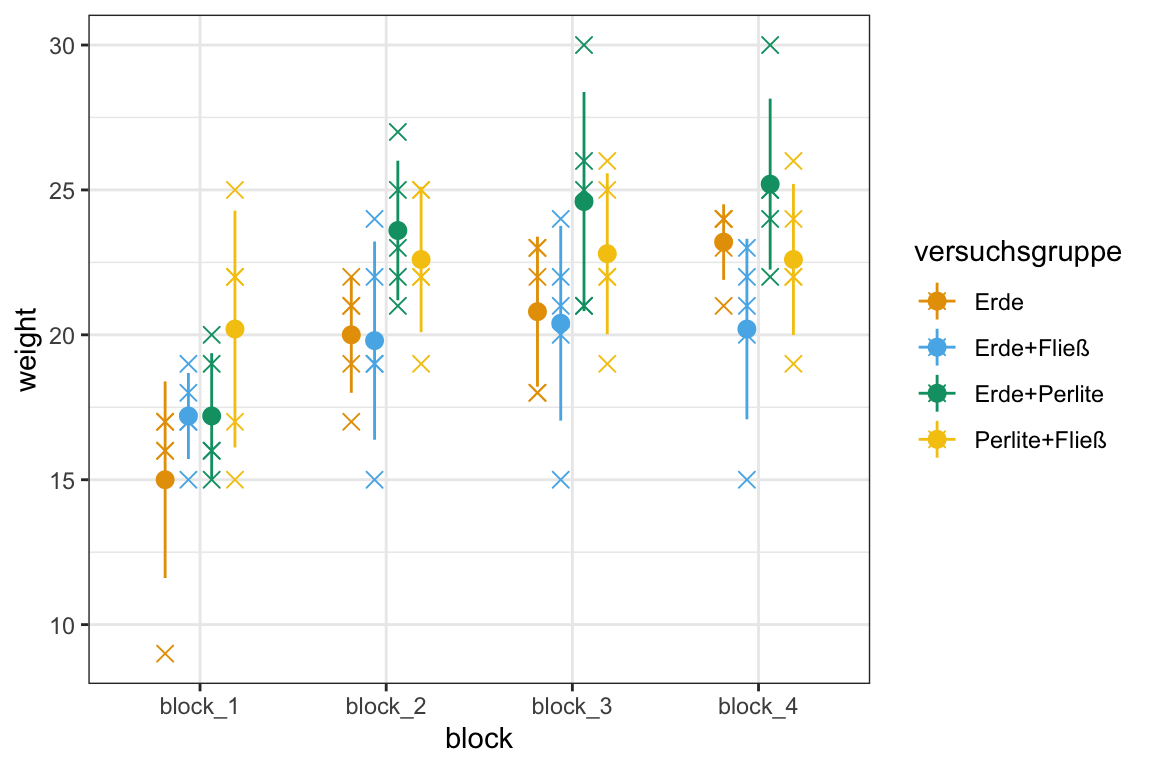
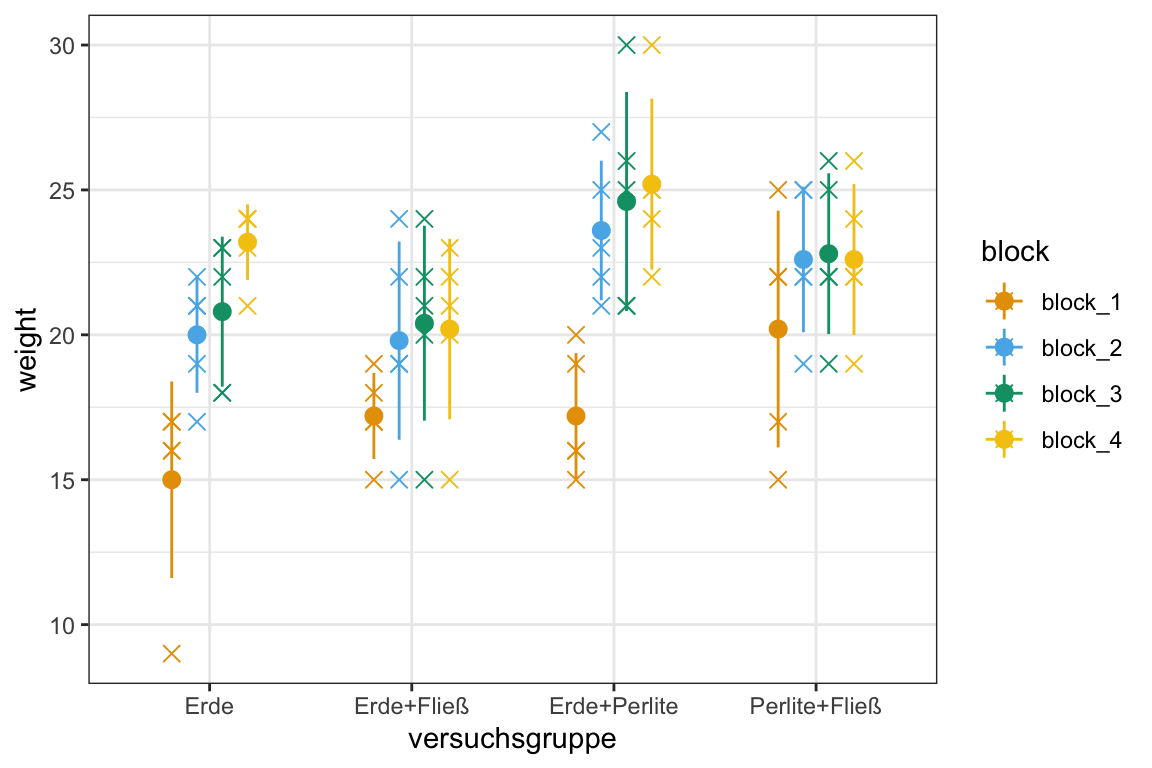
added text

diff --git a/docs/stat-modeling-robust-quantile.html b/docs/stat-modeling-robust-quantile.html
@@ -701,7 +701,7 @@ div.csl-indent {
   </div>
   
 
-</header><p><em>Version vom July 18, 2023 um 11:42:04</em></p>
+</header><p><em>Version vom July 18, 2023 um 13:17:44</em></p>
 <blockquote class="blockquote">
 <p><em>“All models are approximations. Essentially, all models are wrong, but some are useful. However, the approximate nature of the model must always be borne in mind.” — George E. P. Box</em></p>
 </blockquote>
@@ -851,7 +851,7 @@ div.csl-indent {
 </div>
 <p>In der <a href="#fig-robust-basi-00">Abbildung&nbsp;<span>47.1</span></a> siehst du einmal die Daten als Dotplots mit Mittelwert und Standardabweichung. Wir machen hier mal einen etwas komplizierteren Plot, aber immer nur Barplot ist ja auch langweilig.</p>
 <div class="cell" data-layout-align="center">
-<div class="sourceCode" id="cb4"><pre class="downlit sourceCode r code-with-copy"><code class="sourceCode R"><span><span class="fu">ggplot</span><span class="op">(</span><span class="va">basi_block_tbl</span>, <span class="fu">aes</span><span class="op">(</span><span class="va">block</span>, <span class="va">weight</span>, color <span class="op">=</span> <span class="va">versuchsgruppe</span><span class="op">)</span><span class="op">)</span> <span class="op">+</span></span>
+<div class="sourceCode" id="cb4"><pre class="downlit sourceCode r code-with-copy"><code class="sourceCode R"><span><span class="fu">ggplot</span><span class="op">(</span><span class="va">basi_block_tbl</span>, <span class="fu">aes</span><span class="op">(</span><span class="va">versuchsgruppe</span>, <span class="va">weight</span>, color <span class="op">=</span> <span class="va">block</span><span class="op">)</span><span class="op">)</span> <span class="op">+</span></span>
 <span>  <span class="fu">theme_bw</span><span class="op">(</span><span class="op">)</span> <span class="op">+</span></span>
 <span>  <span class="fu">scale_color_okabeito</span><span class="op">(</span><span class="op">)</span> <span class="op">+</span></span>
 <span>  <span class="fu">geom_point</span><span class="op">(</span>position <span class="op">=</span> <span class="fu">position_dodge</span><span class="op">(</span><span class="fl">0.5</span><span class="op">)</span>, shape <span class="op">=</span> <span class="fl">4</span>, size <span class="op">=</span> <span class="fl">2.5</span><span class="op">)</span> <span class="op">+</span></span>
@@ -1316,7 +1316,12 @@ NOTE: If two or more means share the same grouping symbol,
 </div>
 </section></section><section id="sec-robust-reg" class="level2 page-columns page-full" data-number="47.4"><h2 data-number="47.4" class="anchored" data-anchor-id="sec-robust-reg">
 <span class="header-section-number">47.4</span> Robuste Regression</h2>
-<p>Bei einer robusten Regression werden jeder Beobachtung auf der Grundlage ihres Residuums unterschiedliche Gewichte (eng. <em>robustness weights</em>) von 0 bis 1 zugewiesen. Wir kennen ein Residuum als die Differenz zwischen den beobachteten und den vorhergesagten Werten der Daten. Die vorhergesagten Daten sind ja die Punkte auf der Geraden. Je kleiner also das Residuum ist, desto größer ist die Gewichtung und desto näher liegt eine Beobachtung an der geschätzten Geraden.</p>
+<p>Bei einer robusten Regression werden jeder Beobachtung auf der Grundlage ihres Residuums unterschiedliche Gewichte (eng. <em>robustness weights</em>) von 0 bis 1 zugewiesen. Wir kennen ja ein Residuum als die Differenz zwischen den beobachteten und den vorhergesagten Werten der Daten. Die vorhergesagten Daten sind ja die Punkte auf der Geraden. Je kleiner also das Residuum ist, desto größer ist die Gewichtung und desto näher liegt eine Beobachtung an der geschätzten Geraden. Wir bestrafen also Punkte, die weit weg von unserer potenziellen Gerade liegen.</p>
+
+<div class="no-row-height column-margin column-container"><div class="">
+<p>Ein englisches Tutorium gibt es dann nochmal ausführlicher unter <a href="https://yuzar-blog.netlify.app/posts/2022-09-02-robustregression/">R demo | Robust Regression (don’t depend on influential data!)</a></p>
+<p>Ebenso liefert auch das Tutorium <a href="https://stats.oarc.ucla.edu/r/dae/robust-regression/">Robust regression | R data analysis example</a> einen Überblick.</p>
+</div></div><p>Schauen wir uns das Problem an einem kleinen Spieldatensatz einmal an.</p>
 <div class="cell">
 <div class="sourceCode" id="cb18"><pre class="downlit sourceCode r code-with-copy"><code class="sourceCode R"><span><span class="va">reg_tbl</span> <span class="op">&lt;-</span> <span class="fu">tibble</span><span class="op">(</span>x <span class="op">=</span> <span class="fu"><a href="https://rdrr.io/r/base/c.html">c</a></span><span class="op">(</span><span class="fl">0</span>, <span class="fl">1</span>, <span class="fl">2</span>, <span class="fl">3</span>, <span class="fl">4</span>, <span class="fl">5</span>, <span class="fl">6</span>, <span class="fl">7</span><span class="op">)</span>,</span>
 <span>                  y <span class="op">=</span> <span class="fu"><a href="https://rdrr.io/r/base/c.html">c</a></span><span class="op">(</span><span class="fl">1</span>, <span class="fl">1.5</span>, <span class="fl">2.3</span>, <span class="fl">2.8</span>, <span class="fl">4.1</span>, <span class="fl">5.3</span>, <span class="fl">0</span>, <span class="fl">6.8</span><span class="op">)</span><span class="op">)</span></span></code><button title="In die Zwischenablage kopieren" class="code-copy-button"><i class="bi"></i></button></pre></div>
@@ -1340,31 +1345,23 @@ NOTE: If two or more means share the same grouping symbol,
 </div>
 </div>
 <p>In unserem Beispiel ist die Beobachtung 6 der Ausreißer. In einer normalen Regression erhält diese Beobachtung sehr viel Gewicht. Die Gerade wird dadurch nach unten gezogen. In einer robusten Regression erhält eine Beobachtung mit einem großen Residuum sehr wenig Gewicht, in diesem konstruierten Beispiel fast 0. Daher können wir sagen, das unser Modell <em>robust</em> gegen Ausreißer ist.</p>
+<p>Okay, soweit lernt es jeder und die Idee der robusten Regression ist auch ziemlich einleuchtend. Aber in der Wissenschaft zeichnen wir keine Gerade durch Punkte und freuen uns drüber, dass die eine gerade besser passt als die andere Gerade.</p>
 <p>Unbeliebt?</p>
 <p><a href="https://en.wikipedia.org/wiki/Robust_regression#History_and_unpopularity_of_robust_regression">History and unpopularity of robust regression</a></p>
 <p><span class="citation" data-cites="stromberg2004write">Stromberg (<a href="#ref-stromberg2004write" role="doc-biblioref">2004</a>)</span></p>
 <p>Gibt es in biologischen Daten eigentlich überhaupt Ausreißer? Oder müssten wir nicht Ausreißer besonders betrachten, weil die Ausreßer dann doch mehr über die Daten verraten?</p>
-
-<div class="no-row-height column-margin column-container"><div class="">
-<p>Ein englisches Tutorium gibt es dann nochmal ausführlicher unter <a href="https://yuzar-blog.netlify.app/posts/2022-09-02-robustregression/">R demo | Robust Regression (don’t depend on influential data!)</a></p>
-<p>Ebenso liefert auch das Tutorium <a href="https://stats.oarc.ucla.edu/r/dae/robust-regression/">Robust regression | R data analysis example</a> einen Überblick.</p>
-</div></div><p>Es gibt noch das R Paket <code>robustbase</code> aber hier sind die Funktionen von <code>emmeans</code> nicht zugänglich.</p>
-<p><span class="math display">\[
-y \sim f_1 + f_2 + c_1
-\]</span></p>
-<p><span class="math display">\[
-length \sim \overbrace{versuchsgruppe}^{f_1} + \underbrace{(time\_num)^3}_{c_1} + \overbrace{versuchsgruppe:(time\_num)^3}^{f_1:c_1}
-\]</span></p>
+<p>Es gibt noch das R Paket <code>robustbase</code> aber hier sind die Funktionen von <code>emmeans</code> nicht zugänglich.</p>
 <div class="cell">
 <div class="sourceCode" id="cb21"><pre class="downlit sourceCode r code-with-copy"><code class="sourceCode R"><span><span class="va">basi_rob_fit</span> <span class="op">&lt;-</span> <span class="fu">rlm</span><span class="op">(</span><span class="va">weight</span> <span class="op">~</span> <span class="va">versuchsgruppe</span> <span class="op">+</span> <span class="va">block</span> <span class="op">+</span> <span class="va">versuchsgruppe</span><span class="op">:</span><span class="va">block</span>, <span class="va">basi_block_tbl</span><span class="op">)</span></span></code><button title="In die Zwischenablage kopieren" class="code-copy-button"><i class="bi"></i></button></pre></div>
 </div>
 <section id="anova-1" class="level3" data-number="47.4.1"><h3 data-number="47.4.1" class="anchored" data-anchor-id="anova-1">
 <span class="header-section-number">47.4.1</span> ANOVA</h3>
-<p>Leider hilft hier die ANOVA nicht weiter. Aber wir können händisch rechnen.</p>
+<p>Dann wollen wir einmal eine zweifaktorielle ANOVA auf den Modell der robusten Regression rechnen. Leider kann ich schon gleich sagen, dass wir hier ein Problem kriegen. Es ist nicht ganz klar unter Theoretikern welche Anzahl an Beobachtungen für die Residuen in der robusten Regression genutzt werden soll. Welche Beobachtungen werden den im Modell berücksichtigt und welche nicht? Daher ist dann der Wert für die Freiheitsgrade <span class="math inline">\(df\)</span> leer und wir erhalten keine <span class="math inline">\(F\)</span>-Statistik und dann auch keine <span class="math inline">\(p\)</span>-Werte. Für mich super unbefriedigend, so kann man dann auch keine Funktionen richtig nutzen.</p>
 <div class="cell">
-<div class="sourceCode" id="cb22"><pre class="downlit sourceCode r code-with-copy"><code class="sourceCode R"><span><span class="va">basi_rob_fit</span> <span class="op">%&gt;%</span> </span>
+<div class="sourceCode" id="cb22"><pre class="downlit sourceCode r code-with-copy"><code class="sourceCode R"><span><span class="va">basi_rob_aov</span> <span class="op">&lt;-</span> <span class="va">basi_rob_fit</span> <span class="op">%&gt;%</span> </span>
 <span>  <span class="fu"><a href="https://rdrr.io/r/stats/anova.html">anova</a></span><span class="op">(</span><span class="op">)</span> <span class="op">%&gt;%</span> </span>
-<span>  <span class="fu">tidy</span><span class="op">(</span><span class="op">)</span></span></code><button title="In die Zwischenablage kopieren" class="code-copy-button"><i class="bi"></i></button></pre></div>
+<span>  <span class="fu">tidy</span><span class="op">(</span><span class="op">)</span></span>
+<span><span class="va">basi_rob_aov</span></span></code><button title="In die Zwischenablage kopieren" class="code-copy-button"><i class="bi"></i></button></pre></div>
 <div class="cell-output cell-output-stdout">
 <pre><code># A tibble: 4 × 6
   term                    df sumsq meansq statistic p.value
@@ -1375,14 +1372,45 @@ length \sim \overbrace{versuchsgruppe}^{f_1} + \underbrace{(time\_num)^3}_{c_1} 
 4 Residuals               NA 527.   NA           NA      NA</code></pre>
 </div>
 </div>
+<p>Was als Freiheitsgrad für die Residuen nehmen? In unserem Datensatz haben wir 80 Basilikumpflanzen und somit auch Beobachtungen vorliegen. Wir setzen jetzt einfach brutal die Freiheitsgrade <code>df</code> für die Residuen auf 80 und können dann die Mean Squares für die Residuen berechnen. Also einmal flott die <code>meansq</code> für die Residuen durch die Anzahl an Beobachtungen geteilt.</p>
 <div class="cell">
-<div class="sourceCode" id="cb24"><pre class="downlit sourceCode r code-with-copy"><code class="sourceCode R"><span><span class="fu"><a href="https://rdrr.io/r/stats/Fdist.html">pf</a></span><span class="op">(</span><span class="fl">3.4</span>, <span class="fl">3</span>, <span class="fl">12</span>, lower.tail <span class="op">=</span> <span class="cn">FALSE</span><span class="op">)</span></span></code><button title="In die Zwischenablage kopieren" class="code-copy-button"><i class="bi"></i></button></pre></div>
+<div class="sourceCode" id="cb24"><pre class="downlit sourceCode r code-with-copy"><code class="sourceCode R"><span><span class="va">ms_resid</span> <span class="op">&lt;-</span> <span class="fl">527</span> <span class="op">/</span> <span class="fl">80</span></span></code><button title="In die Zwischenablage kopieren" class="code-copy-button"><i class="bi"></i></button></pre></div>
+</div>
+<p>Mit den Mean Square der Residuen können wir dann auch die <span class="math inline">\(F\)</span>-Werte berechnen. Den rechnerischen Weg kennen wir ja schon aus der zweifaktoriellen ANOVA.</p>
+<div class="cell">
+<div class="sourceCode" id="cb25"><pre class="downlit sourceCode r code-with-copy"><code class="sourceCode R"><span><span class="va">f_calc</span> <span class="op">&lt;-</span> <span class="va">basi_rob_aov</span><span class="op">$</span><span class="va">meansq</span> <span class="op">/</span> <span class="va">ms_resid</span></span></code><button title="In die Zwischenablage kopieren" class="code-copy-button"><i class="bi"></i></button></pre></div>
+</div>
+<p>Wie kriegen wir jetzt aus den ganzen berechneten <span class="math inline">\(F\)</span>-Werten die entsprechenden <span class="math inline">\(p\)</span>-Werte? Die <span class="math inline">\(p\)</span>-Werte sind die Fläche rechts von den berechneten Werten. Wir können die Funktion <code><a href="https://rdrr.io/r/stats/Fdist.html">pf()</a></code> nutzen um diese Flächen zu berechnen. Wir machen das einmal beispielhaft für einen <span class="math inline">\(F_{calc} = 3.41\)</span> für 4 Gruppen mit <span class="math inline">\(df_1 = 4 - 1 = 3\)</span> und 12 Beobachtungen <span class="math inline">\(df_2 = 12\)</span>. Die Berechnung von <span class="math inline">\(df_2\)</span> ist statistisch <em>falsch</em> aber für unseren MacGyver Hack hinreichend.</p>
+<div class="cell">
+<div class="sourceCode" id="cb26"><pre class="downlit sourceCode r code-with-copy"><code class="sourceCode R"><span><span class="fu"><a href="https://rdrr.io/r/stats/Fdist.html">pf</a></span><span class="op">(</span><span class="fl">3.41</span>, <span class="fl">3</span>, <span class="fl">12</span>, lower.tail <span class="op">=</span> <span class="cn">FALSE</span><span class="op">)</span> <span class="op">%&gt;%</span> <span class="fu"><a href="https://rdrr.io/r/base/Round.html">round</a></span><span class="op">(</span><span class="fl">3</span><span class="op">)</span></span></code><button title="In die Zwischenablage kopieren" class="code-copy-button"><i class="bi"></i></button></pre></div>
 <div class="cell-output cell-output-stdout">
-<pre><code>[1] 0.05349226</code></pre>
+<pre><code>[1] 0.053</code></pre>
 </div>
 </div>
+<p>Und siehe da, wir erhalten einen <span class="math inline">\(p\)</span>-Wert von <span class="math inline">\(0.053\)</span>. Nun können wir das nicht nur für einzelnen <span class="math inline">\(F\)</span>-Werte machen sondern auch für unseren ganzen Vektor <code>f_calc</code>. Als <span class="math inline">\(df_2\)</span> setzen wir die Anzahl an Basilikumpflanzen.</p>
 <div class="cell">
-<div class="sourceCode" id="cb26"><pre class="downlit sourceCode r code-with-copy"><code class="sourceCode R"><span><span class="va">basi_rob_fit</span> <span class="op">%&gt;%</span> </span>
+<div class="sourceCode" id="cb28"><pre class="downlit sourceCode r code-with-copy"><code class="sourceCode R"><span><span class="va">p_vec</span> <span class="op">&lt;-</span> <span class="fu"><a href="https://rdrr.io/r/stats/Fdist.html">pf</a></span><span class="op">(</span><span class="va">f_calc</span>, <span class="fu"><a href="https://rdrr.io/r/base/c.html">c</a></span><span class="op">(</span><span class="fl">3</span>, <span class="fl">3</span>, <span class="fl">9</span><span class="op">)</span>, <span class="fu"><a href="https://rdrr.io/r/base/c.html">c</a></span><span class="op">(</span><span class="fl">80</span>, <span class="fl">80</span>, <span class="fl">80</span><span class="op">)</span>, lower.tail <span class="op">=</span> <span class="cn">FALSE</span><span class="op">)</span> <span class="op">%&gt;%</span> </span>
+<span>  <span class="fu">scales</span><span class="fu">::</span><span class="fu"><a href="https://scales.r-lib.org/reference/pvalue_format.html">pvalue</a></span><span class="op">(</span><span class="op">)</span></span></code><button title="In die Zwischenablage kopieren" class="code-copy-button"><i class="bi"></i></button></pre></div>
+</div>
+<p>Die berechneten <span class="math inline">\(F\)</span>-Werte und <span class="math inline">\(p\)</span>-Werte können wir jetzt in die ANOVA Tabelle ergänzen.</p>
+<div class="cell">
+<div class="sourceCode" id="cb29"><pre class="downlit sourceCode r code-with-copy"><code class="sourceCode R"><span><span class="va">basi_rob_aov</span> <span class="op">%&gt;%</span> </span>
+<span>  <span class="fu">mutate</span><span class="op">(</span>statistic <span class="op">=</span> <span class="va">f_calc</span>, </span>
+<span>         p.value <span class="op">=</span> <span class="va">p_vec</span><span class="op">)</span></span></code><button title="In die Zwischenablage kopieren" class="code-copy-button"><i class="bi"></i></button></pre></div>
+<div class="cell-output cell-output-stdout">
+<pre><code># A tibble: 4 × 6
+  term                    df sumsq meansq statistic p.value
+  &lt;chr&gt;                &lt;int&gt; &lt;dbl&gt;  &lt;dbl&gt;     &lt;dbl&gt; &lt;chr&gt;  
+1 versuchsgruppe           3 114.   37.9       5.75 0.001  
+2 block                    3 318.  106.       16.1  &lt;0.001 
+3 versuchsgruppe:block     9  63.7   7.07      1.07 0.391  
+4 Residuals               NA 527.   NA        NA    &lt;NA&gt;   </code></pre>
+</div>
+</div>
+<p>Das war jetzt ein ganz schöner Angang und den <span class="math inline">\(p\)</span>-Werten ist nur approximativ zu trauen, aber wenn wir weit vom Signifikanzniveau <span class="math inline">\(\alpha\)</span> gleich 5% sind, dann macht eine numerische Ungenauigkeit auch nicht viel aus. Achtung deshalb bei <span class="math inline">\(p\)</span>-Werten nahe des Signifikanzniveau <span class="math inline">\(\alpha\)</span>, hier ist dann die Aussage mit Vorsicht zu treffen oder eher nicht möglich.</p>
+<p>Glücklicherweise können wir aus den Sum of squares dann unsere <span class="math inline">\(\eta^2\)</span>-Werte für die erklärte Varianz unserer ANOVA berechnen. Das ist dann doch schon mal was. Wir sehen, dass die Blöcke am meisten der Varianz erklären und die Versuchsgruppen sehr wenig. Das ist für das Modell dann nicht so schön, deckt sich aber mit den Ergebnissen gewöhnlichen Regression. Wir erhalten eine Konfidenzintervalle, woran du schon erkennen kannst, dass in der Ausgabe der ANOVA der robusten Regression was fehlt.</p>
+<div class="cell">
+<div class="sourceCode" id="cb31"><pre class="downlit sourceCode r code-with-copy"><code class="sourceCode R"><span><span class="va">basi_rob_fit</span> <span class="op">%&gt;%</span> </span>
 <span>  <span class="fu">eta_squared</span><span class="op">(</span><span class="op">)</span></span></code><button title="In die Zwischenablage kopieren" class="code-copy-button"><i class="bi"></i></button></pre></div>
 <div class="cell-output cell-output-stdout">
 <pre><code># Effect Size for ANOVA (Type I)
@@ -1398,39 +1426,19 @@ versuchsgruppe:block |           0.11 | [ , 1.00]
 </div>
 </section><section id="gruppenvergleich-1" class="level3" data-number="47.4.2"><h3 data-number="47.4.2" class="anchored" data-anchor-id="gruppenvergleich-1">
 <span class="header-section-number">47.4.2</span> Gruppenvergleich</h3>
+<p>Dafür geht der Gruppenvergleich für die robuste Regression wie von alleine. Wir haben keine Interaktion vorliegen, daher müssen wir auch nicht den Block berücksichtigen. Das wir in Block 1 ein Problem haben, steht dann aber auf einem anderen Blatt. Da aber <em>alle</em> Basilikumpflanzen immer im Block 1 kleiner sind, passt es dann wieder im Sinne keiner Interaktion. Mit Interaktion hätten wir sonst <code>versuchsgruppe | block</code> statt nur <code>versuchsgruppe</code> hinter die Tilde geschrieben. Dann wollen wir noch das <em>compact letter disply</em> und alles ist wie es sein sollte.</p>
 <div class="cell">
-<div class="sourceCode" id="cb28"><pre class="downlit sourceCode r code-with-copy"><code class="sourceCode R"><span><span class="va">basi_rob_fit</span> <span class="op">%&gt;%</span> </span>
-<span>  <span class="fu">emmeans</span><span class="op">(</span>specs <span class="op">=</span> <span class="op">~</span> <span class="va">versuchsgruppe</span> <span class="op">|</span> <span class="va">block</span><span class="op">)</span> <span class="op">%&gt;%</span></span>
+<div class="sourceCode" id="cb33"><pre class="downlit sourceCode r code-with-copy"><code class="sourceCode R"><span><span class="va">basi_rob_fit</span> <span class="op">%&gt;%</span> </span>
+<span>  <span class="fu">emmeans</span><span class="op">(</span>specs <span class="op">=</span> <span class="op">~</span> <span class="va">versuchsgruppe</span><span class="op">)</span> <span class="op">%&gt;%</span></span>
 <span>  <span class="fu">cld</span><span class="op">(</span>Letters <span class="op">=</span> <span class="va">letters</span>, adjust <span class="op">=</span> <span class="st">"none"</span><span class="op">)</span> </span></code><button title="In die Zwischenablage kopieren" class="code-copy-button"><i class="bi"></i></button></pre></div>
 <div class="cell-output cell-output-stdout">
-<pre><code>block = block_1:
- versuchsgruppe emmean   SE df asymp.LCL asymp.UCL .group
- Erde             15.7 1.34 NA      13.1      18.3  a    
- Erde+Fließ       17.2 1.34 NA      14.6      19.8  ab   
- Erde+Perlite     17.2 1.34 NA      14.6      19.8  ab   
- Perlite+Fließ    20.4 1.34 NA      17.8      23.0   b   
+<pre><code> versuchsgruppe emmean    SE df asymp.LCL asymp.UCL .group
+ Erde+Fließ       19.7 0.668 NA      18.4      21.0  a    
+ Erde             19.9 0.668 NA      18.6      21.2  a    
+ Perlite+Fließ    22.2 0.668 NA      20.9      23.5   b   
+ Erde+Perlite     22.4 0.668 NA      21.1      23.7   b   
 
-block = block_2:
- versuchsgruppe emmean   SE df asymp.LCL asymp.UCL .group
- Erde+Fließ       20.0 1.34 NA      17.4      22.6  a    
- Erde             20.0 1.34 NA      17.4      22.6  a    
- Perlite+Fließ    22.7 1.34 NA      20.1      25.3  a    
- Erde+Perlite     23.6 1.34 NA      20.9      26.2  a    
-
-block = block_3:
- versuchsgruppe emmean   SE df asymp.LCL asymp.UCL .group
- Erde             20.8 1.34 NA      18.2      23.4  a    
- Erde+Fließ       20.9 1.34 NA      18.3      23.6  a    
- Perlite+Fließ    22.9 1.34 NA      20.3      25.6  a    
- Erde+Perlite     24.1 1.34 NA      21.4      26.7  a    
-
-block = block_4:
- versuchsgruppe emmean   SE df asymp.LCL asymp.UCL .group
- Erde+Fließ       20.7 1.34 NA      18.1      23.3  a    
- Perlite+Fließ    22.7 1.34 NA      20.1      25.3  ab   
- Erde             23.2 1.34 NA      20.6      25.8  ab   
- Erde+Perlite     24.8 1.34 NA      22.2      27.4   b   
-
+Results are averaged over the levels of: block 
 Confidence level used: 0.95 
 significance level used: alpha = 0.05 
 NOTE: If two or more means share the same grouping symbol,
@@ -1438,13 +1446,14 @@ NOTE: If two or more means share the same grouping symbol,
       But we also did not show them to be the same. </code></pre>
 </div>
 </div>
+<p>Wir sehen also, dass sich Erde+Fließ und Erde nicht unterscheiden. Die beiden aber dann von Perlite+Fließ sowie Erde+Perlite. Am Ende unterscheiden sich Perlite+Fließ und Erde+Perlite nicht.</p>
 </section></section><section id="sec-quantile-reg" class="level2 page-columns page-full" data-number="47.5"><h2 data-number="47.5" class="anchored" data-anchor-id="sec-quantile-reg">
 <span class="header-section-number">47.5</span> Quantilsregression</h2>
 
 <div class="no-row-height column-margin column-container"><div class="">
 <p>Ein englisches Tutorium gibt es dann nochmal ausführlicher unter <a href="https://yuzar-blog.netlify.app/posts/2022-12-01-quantileregression/">Quantile Regression as an useful Alternative for Ordinary Linear Regression</a></p>
 </div></div><div class="cell">
-<div class="sourceCode" id="cb30"><pre class="downlit sourceCode r code-with-copy"><code class="sourceCode R"><span><span class="va">time_rq_fit</span> <span class="op">&lt;-</span> <span class="fu">rq</span><span class="op">(</span><span class="va">length</span> <span class="op">~</span> <span class="va">versuchsgruppe</span> <span class="op">+</span> <span class="va">time_num</span> <span class="op">+</span> <span class="va">versuchsgruppe</span><span class="op">:</span><span class="va">time_num</span>, tau <span class="op">=</span> <span class="fl">0.5</span>,</span>
+<div class="sourceCode" id="cb35"><pre class="downlit sourceCode r code-with-copy"><code class="sourceCode R"><span><span class="va">time_rq_fit</span> <span class="op">&lt;-</span> <span class="fu">rq</span><span class="op">(</span><span class="va">length</span> <span class="op">~</span> <span class="va">versuchsgruppe</span> <span class="op">+</span> <span class="va">time_num</span> <span class="op">+</span> <span class="va">versuchsgruppe</span><span class="op">:</span><span class="va">time_num</span>, tau <span class="op">=</span> <span class="fl">0.5</span>,</span>
 <span>                  <span class="va">gurke_time_len_tbl</span><span class="op">)</span></span></code><button title="In die Zwischenablage kopieren" class="code-copy-button"><i class="bi"></i></button></pre></div>
 </div>
 <section id="anova-2" class="level3" data-number="47.5.1"><h3 data-number="47.5.1" class="anchored" data-anchor-id="anova-2">
@@ -1455,7 +1464,7 @@ NOTE: If two or more means share the same grouping symbol,
 <p>Und eigentlich den Spezialfall der Median-Regression schauen wir uns an.</p>
 <p>Dafür nutzen wir das R Paket <code>quantreg</code> und die Funktion <code>rq()</code></p>
 <div class="cell" data-layout-align="center">
-<div class="sourceCode" id="cb31"><pre class="downlit sourceCode r code-with-copy"><code class="sourceCode R"><span><span class="fu">emmip</span><span class="op">(</span><span class="va">time_rq_fit</span>, <span class="va">versuchsgruppe</span> <span class="op">~</span> <span class="va">time_num</span>, CIs <span class="op">=</span> <span class="cn">TRUE</span>, </span>
+<div class="sourceCode" id="cb36"><pre class="downlit sourceCode r code-with-copy"><code class="sourceCode R"><span><span class="fu">emmip</span><span class="op">(</span><span class="va">time_rq_fit</span>, <span class="va">versuchsgruppe</span> <span class="op">~</span> <span class="va">time_num</span>, CIs <span class="op">=</span> <span class="cn">TRUE</span>, </span>
 <span>      cov.reduce <span class="op">=</span> <span class="cn">FALSE</span><span class="op">)</span> <span class="op">+</span></span>
 <span>  <span class="fu">theme_bw</span><span class="op">(</span><span class="op">)</span> <span class="op">+</span></span>
 <span>  <span class="fu">scale_color_okabeito</span><span class="op">(</span><span class="op">)</span></span></code><button title="In die Zwischenablage kopieren" class="code-copy-button"><i class="bi"></i></button></pre></div>
@@ -1467,7 +1476,7 @@ NOTE: If two or more means share the same grouping symbol,
 </div>
 </div>
 <div class="cell">
-<div class="sourceCode" id="cb32"><pre class="downlit sourceCode r code-with-copy"><code class="sourceCode R"><span><span class="va">time_rq_fit</span> <span class="op">%&gt;%</span> </span>
+<div class="sourceCode" id="cb37"><pre class="downlit sourceCode r code-with-copy"><code class="sourceCode R"><span><span class="va">time_rq_fit</span> <span class="op">%&gt;%</span> </span>
 <span>  <span class="fu">emmeans</span><span class="op">(</span><span class="va">pairwise</span> <span class="op">~</span> <span class="va">versuchsgruppe</span> <span class="op">|</span> <span class="va">time_num</span>, infer  <span class="op">=</span> <span class="cn">TRUE</span>,</span>
 <span>          adjust <span class="op">=</span> <span class="st">"none"</span>, at <span class="op">=</span> <span class="fu"><a href="https://rdrr.io/r/base/list.html">list</a></span><span class="op">(</span>time_num <span class="op">=</span> <span class="fu"><a href="https://rdrr.io/r/base/c.html">c</a></span><span class="op">(</span><span class="fl">1</span>, <span class="fl">7</span>, <span class="fl">14</span><span class="op">)</span><span class="op">)</span><span class="op">)</span> <span class="op">%&gt;%</span></span>
 <span>  <span class="fu">cld</span><span class="op">(</span>Letters <span class="op">=</span> <span class="va">letters</span>, adjust <span class="op">=</span> <span class="st">"none"</span><span class="op">)</span> </span></code><button title="In die Zwischenablage kopieren" class="code-copy-button"><i class="bi"></i></button></pre></div>
@@ -1503,14 +1512,14 @@ NOTE: If two or more means share the same grouping symbol,
 <span class="header-section-number">47.6.1</span> Basilikumdaten</h3>
 <p>Für den Modellvergleich der gewöhnlichen, robusten und medianen Regression nutzen wir nochmal den Datensatz für das Basilikumwachstum. In einem ersten Schritt fitten wir wieder alle Modelle und achten darauf, dass wir bei der Quantilesregression angeben welches Quantile wir wollen. Wir wählen mit <code>tau = 0.5</code> dann den Median und rechnen so eine Medianregression.</p>
 <div class="cell">
-<div class="sourceCode" id="cb34"><pre class="downlit sourceCode r code-with-copy"><code class="sourceCode R"><span><span class="va">basi_lm_fit</span> <span class="op">&lt;-</span> <span class="fu"><a href="https://rdrr.io/r/stats/lm.html">lm</a></span><span class="op">(</span><span class="va">weight</span> <span class="op">~</span> <span class="va">versuchsgruppe</span> <span class="op">+</span> <span class="va">block</span> <span class="op">+</span> <span class="va">versuchsgruppe</span><span class="op">:</span><span class="va">block</span>, <span class="va">basi_block_tbl</span><span class="op">)</span></span>
+<div class="sourceCode" id="cb39"><pre class="downlit sourceCode r code-with-copy"><code class="sourceCode R"><span><span class="va">basi_lm_fit</span> <span class="op">&lt;-</span> <span class="fu"><a href="https://rdrr.io/r/stats/lm.html">lm</a></span><span class="op">(</span><span class="va">weight</span> <span class="op">~</span> <span class="va">versuchsgruppe</span> <span class="op">+</span> <span class="va">block</span> <span class="op">+</span> <span class="va">versuchsgruppe</span><span class="op">:</span><span class="va">block</span>, <span class="va">basi_block_tbl</span><span class="op">)</span></span>
 <span><span class="va">basi_rlm_fit</span> <span class="op">&lt;-</span> <span class="fu">rlm</span><span class="op">(</span><span class="va">weight</span> <span class="op">~</span> <span class="va">versuchsgruppe</span> <span class="op">+</span> <span class="va">block</span> <span class="op">+</span> <span class="va">versuchsgruppe</span><span class="op">:</span><span class="va">block</span>, <span class="va">basi_block_tbl</span><span class="op">)</span></span>
 <span><span class="va">basi_rq_fit</span> <span class="op">&lt;-</span> <span class="fu">rq</span><span class="op">(</span><span class="va">weight</span> <span class="op">~</span> <span class="va">versuchsgruppe</span> <span class="op">+</span> <span class="va">block</span> <span class="op">+</span> <span class="va">versuchsgruppe</span><span class="op">:</span><span class="va">block</span>, <span class="va">basi_block_tbl</span>,</span>
 <span>                  tau <span class="op">=</span> <span class="fl">0.5</span><span class="op">)</span></span></code><button title="In die Zwischenablage kopieren" class="code-copy-button"><i class="bi"></i></button></pre></div>
 </div>
 <p>Im Folgenden nutzen wir dann das fantastische Paket <code>modelsummary</code> mit der gleichnamigen Funktion um uns einmal die Modelle im Vergleich anzuschauen. Hier hilft dann wie immer die tolle <a href="https://vincentarelbundock.github.io/modelsummary/articles/modelsummary.html">Hilfsseite von modelsummary</a> zu besuchen. Ich möchte nur nicht den Intercept und die Schätzer für die Blöcke haben, deshalb fliegen die hier einmal raus.</p>
 <div class="cell">
-<div class="sourceCode" id="cb35"><pre class="downlit sourceCode r code-with-copy"><code class="sourceCode R"><span><span class="fu">modelsummary</span><span class="op">(</span><span class="fu">lst</span><span class="op">(</span><span class="st">"Ordinary"</span> <span class="op">=</span> <span class="va">basi_lm_fit</span>,</span>
+<div class="sourceCode" id="cb40"><pre class="downlit sourceCode r code-with-copy"><code class="sourceCode R"><span><span class="fu">modelsummary</span><span class="op">(</span><span class="fu">lst</span><span class="op">(</span><span class="st">"Ordinary"</span> <span class="op">=</span> <span class="va">basi_lm_fit</span>,</span>
 <span>                 <span class="st">"Robust"</span> <span class="op">=</span> <span class="va">basi_rlm_fit</span>,</span>
 <span>                 <span class="st">"Quantile"</span> <span class="op">=</span> <span class="va">basi_rq_fit</span><span class="op">)</span>,</span>
 <span>             estimate  <span class="op">=</span> <span class="st">"{estimate}"</span>,</span>
@@ -1674,14 +1683,14 @@ NOTE: If two or more means share the same grouping symbol,
 </section><section id="gurkendaten" class="level3" data-number="47.6.2"><h3 data-number="47.6.2" class="anchored" data-anchor-id="gurkendaten">
 <span class="header-section-number">47.6.2</span> Gurkendaten</h3>
 <div class="cell">
-<div class="sourceCode" id="cb36"><pre class="downlit sourceCode r code-with-copy"><code class="sourceCode R"><span><span class="va">time_lm_fit</span> <span class="op">&lt;-</span> <span class="fu"><a href="https://rdrr.io/r/stats/lm.html">lm</a></span><span class="op">(</span><span class="va">length</span> <span class="op">~</span> <span class="va">versuchsgruppe</span> <span class="op">+</span> <span class="va">time_num</span> <span class="op">+</span> <span class="va">versuchsgruppe</span><span class="op">:</span><span class="va">time_num</span>, <span class="va">gurke_time_len_tbl</span><span class="op">)</span></span>
+<div class="sourceCode" id="cb41"><pre class="downlit sourceCode r code-with-copy"><code class="sourceCode R"><span><span class="va">time_lm_fit</span> <span class="op">&lt;-</span> <span class="fu"><a href="https://rdrr.io/r/stats/lm.html">lm</a></span><span class="op">(</span><span class="va">length</span> <span class="op">~</span> <span class="va">versuchsgruppe</span> <span class="op">+</span> <span class="va">time_num</span> <span class="op">+</span> <span class="va">versuchsgruppe</span><span class="op">:</span><span class="va">time_num</span>, <span class="va">gurke_time_len_tbl</span><span class="op">)</span></span>
 <span><span class="va">time_rlm_fit</span> <span class="op">&lt;-</span> <span class="fu">rlm</span><span class="op">(</span><span class="va">length</span> <span class="op">~</span> <span class="va">versuchsgruppe</span> <span class="op">+</span> <span class="va">time_num</span> <span class="op">+</span> <span class="va">versuchsgruppe</span><span class="op">:</span><span class="va">time_num</span>, <span class="va">gurke_time_len_tbl</span><span class="op">)</span></span>
 <span><span class="va">time_rq_fit</span> <span class="op">&lt;-</span> <span class="fu">rq</span><span class="op">(</span><span class="va">length</span> <span class="op">~</span> <span class="va">versuchsgruppe</span> <span class="op">+</span> <span class="va">time_num</span> <span class="op">+</span> <span class="va">versuchsgruppe</span><span class="op">:</span><span class="va">time_num</span>, tau <span class="op">=</span> <span class="fl">0.5</span>,</span>
 <span>                  <span class="va">gurke_time_len_tbl</span><span class="op">)</span></span></code><button title="In die Zwischenablage kopieren" class="code-copy-button"><i class="bi"></i></button></pre></div>
 </div>
 <p>Auch hier nutzen wir dann das fantastische Paket <code>modelsummary</code> mit der gleichnamigen Funktion um uns einmal die Modelle im Vergleich anzuschauen.</p>
 <div class="cell">
-<div class="sourceCode" id="cb37"><pre class="downlit sourceCode r code-with-copy"><code class="sourceCode R"><span><span class="fu">modelsummary</span><span class="op">(</span><span class="fu">lst</span><span class="op">(</span><span class="st">"Ordinary"</span> <span class="op">=</span> <span class="va">time_lm_fit</span>,</span>
+<div class="sourceCode" id="cb42"><pre class="downlit sourceCode r code-with-copy"><code class="sourceCode R"><span><span class="fu">modelsummary</span><span class="op">(</span><span class="fu">lst</span><span class="op">(</span><span class="st">"Ordinary"</span> <span class="op">=</span> <span class="va">time_lm_fit</span>,</span>
 <span>                 <span class="st">"Robust"</span> <span class="op">=</span> <span class="va">time_rlm_fit</span>,</span>
 <span>                 <span class="st">"Quantile"</span> <span class="op">=</span> <span class="va">time_rq_fit</span><span class="op">)</span>,</span>
 <span>             estimate  <span class="op">=</span> <span class="st">"{estimate}"</span>,</span>
